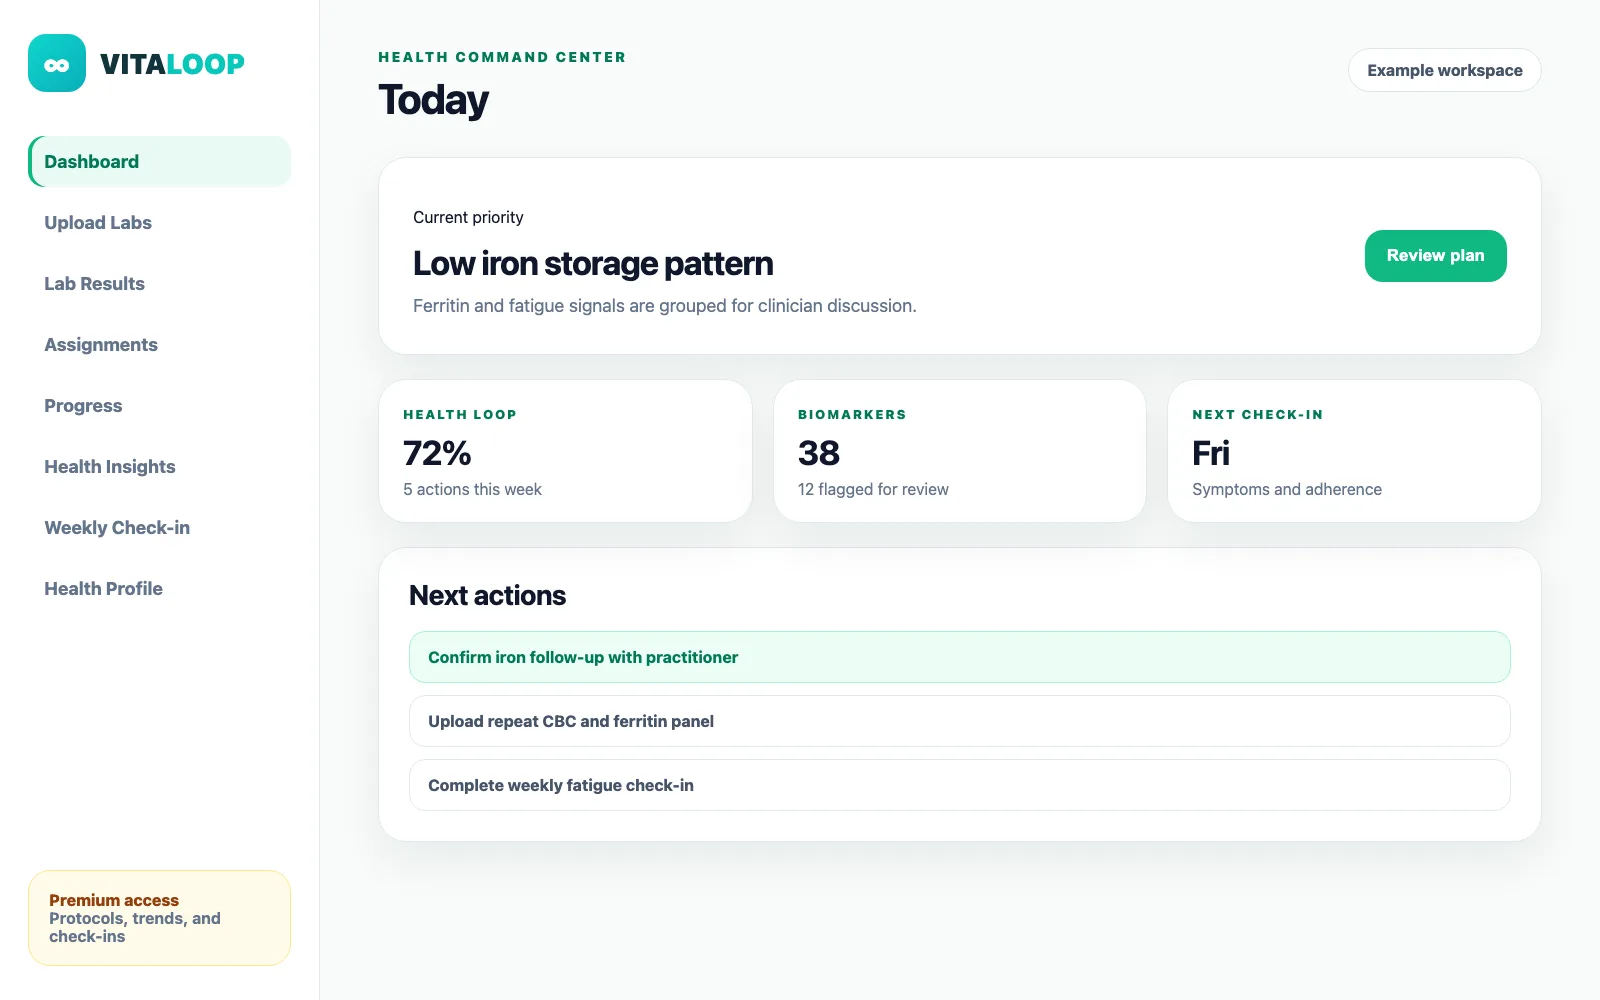
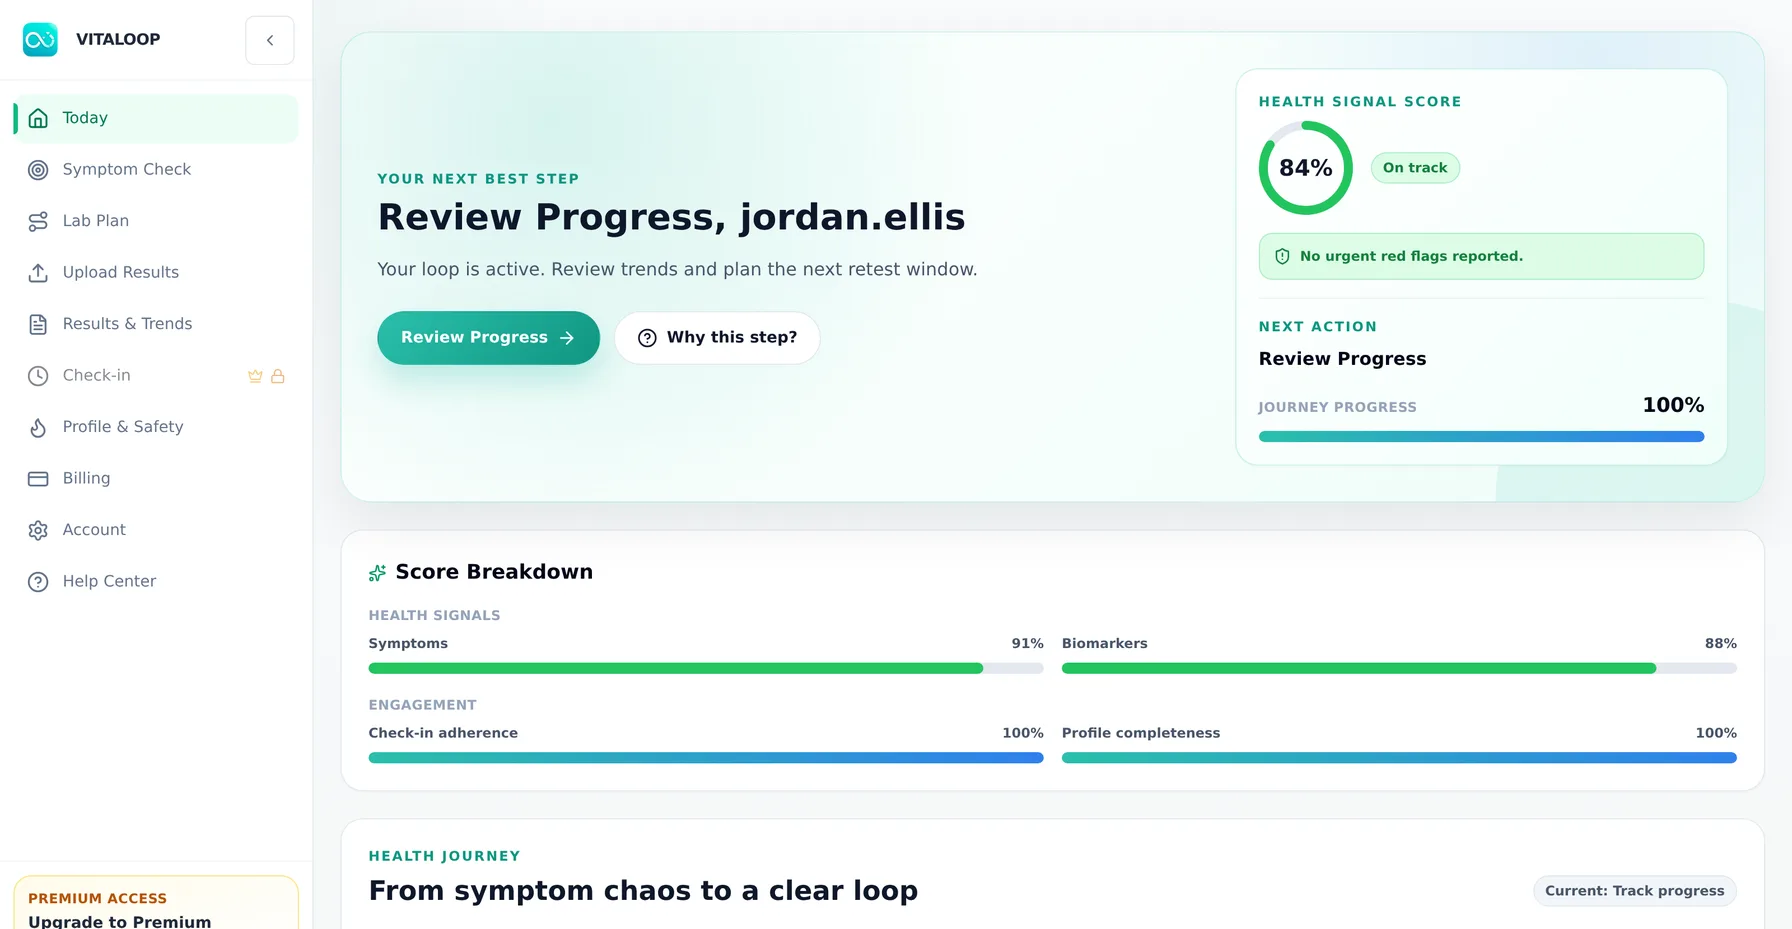
Replace fake 'Real cabinet screens' mockup with an actual screenshot
The Landing.jsx '#example-report' Product Proof section (and ExampleReport.jsx,
which shares the same asset) explicitly labeled this image 'Real cabinet
screens and biomarker flow', but it was a hand-illustrated mockup with a
stale nav (Dashboard/Upload Labs/Assignments/Progress/Health Insights) that
doesn't match the actual current product nav (Today/Symptom Check/Lab Plan/
Upload Results/Results & Trends/Check-in/...). Same class of issue as the
hero card fixed earlier this session.

Replaced public/mockups/example-report/dashboard.webp with the real
/dashboard 'Today' screenshot generated for the hero (same disposable
mock-data harness + synthetic account, cascade-deleted after capture -
no real source touched, no live data affected). Removed the now-stale
orphaned dashboard.png sibling and bumped the cache-busting query param.

Also: refresh Health Hub 'updated' dates (all 13 articles previously
shared one identical June 20 stamp from the original publish batch) to
reflect this session's full content re-review - content itself was
verified accurate and left as-is; no rewrite needed.

Follow-up not done in this commit: ExampleReport.jsx's 'Cabinet screens'
tab section still uses 5 more illustrated mockups from the same original
batch (lab-results/upload/progress/check-in/crm.webp) with the same stale
nav - flagged for the user, real screenshots not yet generated for those.

UI/content only, no backend or business-logic changes.

diff --git a/frontend/src/data/healthHubContent.js b/frontend/src/data/healthHubContent.js
@@ -10,7 +10,7 @@ export const HEALTH_HUB_ARTICLES = [
     eyebrow: 'Start with the pattern',
     icon: BatteryLow,
     readTime: '8 min',
-    updated: 'June 20, 2026',
+    updated: 'September 1, 2026',
     summary: 'Fatigue is a signal, not a diagnosis. Its timing, triggers, associated symptoms, and effect on daily life often provide more useful direction than ordering a random panel.',
     keyPoints: [
       'Track onset, duration, daily timing, sleep quality, activity response, medications, and associated symptoms.',
@@ -58,7 +58,7 @@ export const HEALTH_HUB_ARTICLES = [
     eyebrow: 'Prepare a focused appointment',
     icon: FlaskConical,
     readTime: '9 min',
-    updated: 'June 20, 2026',
+    updated: 'September 1, 2026',
     summary: 'There is no single “fatigue test.” Testing should be selected from your history and symptoms, not ordered as an indiscriminate checklist.',
     keyPoints: [
       'A clinician may consider blood count, iron status, thyroid, glucose, liver, kidney, inflammation, or nutrient testing depending on context.',
@@ -108,7 +108,7 @@ export const HEALTH_HUB_ARTICLES = [
     eyebrow: 'Biomarker deep dive',
     icon: Droplets,
     readTime: '8 min',
-    updated: 'June 20, 2026',
+    updated: 'September 1, 2026',
     summary: 'Ferritin reflects stored iron and can fall before iron-deficiency anemia develops. It is useful, but it should not be interpreted alone.',
     keyPoints: [
       'Ferritin is a commonly used measure of iron stores.',
@@ -156,7 +156,7 @@ export const HEALTH_HUB_ARTICLES = [
     eyebrow: 'Biomarker deep dive',
     icon: Sun,
     readTime: '7 min',
-    updated: 'June 20, 2026',
+    updated: 'September 1, 2026',
     summary: 'Vitamin D status is commonly assessed with serum 25-hydroxyvitamin D. Fatigue alone cannot identify vitamin D deficiency, and a result needs risk and safety context.',
     keyPoints: [
       'Serum 25-hydroxyvitamin D is the main laboratory indicator of vitamin D status.',
@@ -203,7 +203,7 @@ export const HEALTH_HUB_ARTICLES = [
     eyebrow: 'Sleep & recovery',
     icon: Moon,
     readTime: '8 min',
-    updated: 'June 20, 2026',
+    updated: 'September 1, 2026',
     summary: 'Sleep quantity is only one part of recovery. Timing, continuity, breathing, schedule consistency, and whether sleep feels restorative can change the direction of an assessment.',
     keyPoints: [
       'Record bedtime, wake time, awakenings, naps, snoring, and daytime sleepiness for at least one to two weeks.',
@@ -227,7 +227,7 @@ export const HEALTH_HUB_ARTICLES = [
     eyebrow: 'Hair & thyroid',
     icon: ScanLine,
     readTime: '8 min',
-    updated: 'June 20, 2026',
+    updated: 'September 1, 2026',
     summary: 'Hair loss can reflect many different processes. Pattern, onset, scalp findings, recent stressors, nutrition, medications, and associated symptoms determine which tests may be useful.',
     keyPoints: [
       'Diffuse shedding, patchy loss, and patterned thinning are not the same presentation.',
@@ -254,7 +254,7 @@ export const HEALTH_HUB_ARTICLES = [
     eyebrow: 'Cognition & focus',
     icon: Brain,
     readTime: '8 min',
-    updated: 'June 20, 2026',
+    updated: 'September 1, 2026',
     summary: '“Brain fog” is a useful description but not a diagnosis. Clarifying memory, attention, processing speed, timing, triggers, and associated symptoms makes the concern more actionable.',
     keyPoints: [
       'Define whether the main issue is attention, memory, word finding, slowed thinking, or mental exhaustion.',
@@ -281,7 +281,7 @@ export const HEALTH_HUB_ARTICLES = [
     eyebrow: 'Symptom pattern',
     icon: ThermometerSnowflake,
     readTime: '7 min',
-    updated: 'June 20, 2026',
+    updated: 'September 1, 2026',
     summary: 'Feeling unusually cold can be subjective, environmental, or part of a broader pattern. The surrounding symptoms determine whether thyroid, blood count, iron, or other evaluation is useful.',
     keyPoints: [
       'Track whether cold intolerance is new, generalized, seasonal, or limited to hands and feet.',
@@ -308,7 +308,7 @@ export const HEALTH_HUB_ARTICLES = [
     eyebrow: 'Biomarker deep dive',
     icon: Gauge,
     readTime: '8 min',
-    updated: 'June 20, 2026',
+    updated: 'September 1, 2026',
     summary: 'TSH reflects signaling between the pituitary gland and thyroid. It is a central thyroid test, but the result needs symptoms, medication timing, pregnancy status, and sometimes additional thyroid tests.',
     keyPoints: [
       'High or low TSH can point toward different thyroid patterns but does not stand alone as a complete diagnosis.',
@@ -335,7 +335,7 @@ export const HEALTH_HUB_ARTICLES = [
     eyebrow: 'Biomarker deep dive',
     icon: Sparkles,
     readTime: '8 min',
-    updated: 'June 20, 2026',
+    updated: 'September 1, 2026',
     summary: 'Vitamin B12 supports blood and nerve health. Deficiency can cause fatigue and neurological changes, but intake alone does not determine status because absorption matters.',
     keyPoints: [
       'Risk can increase with vegan diets, malabsorption, pernicious anemia, gastrointestinal surgery, and some medications.',
@@ -362,7 +362,7 @@ export const HEALTH_HUB_ARTICLES = [
     eyebrow: 'Metabolic biomarker',
     icon: Activity,
     readTime: '8 min',
-    updated: 'June 20, 2026',
+    updated: 'September 1, 2026',
     summary: 'HbA1c estimates average blood glucose over roughly three months. It is useful for diabetes screening and management, but several conditions can make the result misleading.',
     keyPoints: [
       'HbA1c reflects glucose exposure over the lifespan of red blood cells.',
@@ -389,7 +389,7 @@ export const HEALTH_HUB_ARTICLES = [
     eyebrow: 'Biomarker deep dive',
     icon: ShieldAlert,
     readTime: '7 min',
-    updated: 'June 20, 2026',
+    updated: 'September 1, 2026',
     summary: 'CRP is a nonspecific marker of inflammation. It can show that inflammation is present or changing, but it cannot identify the cause by itself.',
     keyPoints: [
       'CRP can rise with infection, injury, inflammatory disease, and other conditions.',
@@ -413,7 +413,7 @@ export const HEALTH_HUB_ARTICLES = [
     eyebrow: 'Foundational blood test',
     icon: Droplets,
     readTime: '9 min',
-    updated: 'June 20, 2026',
+    updated: 'September 1, 2026',
     summary: 'A CBC is a group of measurements, not one result. Red-cell indices, white-cell patterns, platelets, symptoms, and trends are interpreted together.',
     keyPoints: [
       'A CBC measures the number and characteristics of several blood-cell types.',

diff --git a/frontend/src/pages/Landing.jsx b/frontend/src/pages/Landing.jsx
@@ -930,7 +930,7 @@ export default function Landing() {
                 </button>
               </div>
               <img
-                src="/mockups/example-report/dashboard.webp?v=20260606"
+                src="/mockups/example-report/dashboard.webp?v=20260901"
                 alt="VITALOOP cabinet dashboard preview"
                 className="w-full rounded-2xl border border-slate-200 bg-slate-50 object-cover shadow-xl"
                 loading="eager"
